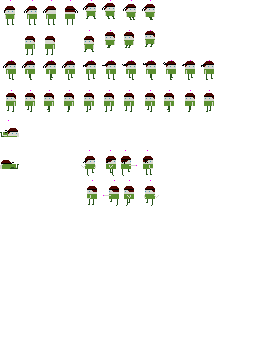
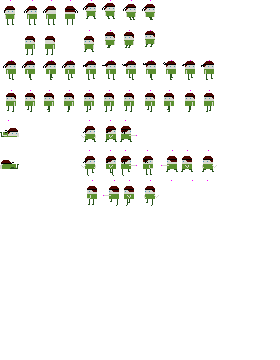
Added Jake's crawl attack animation

diff --git a/locations_back.py b/locations_back.py
@@ -14,15 +14,16 @@ locations = {
             },
             'obstacles': {
                 'obs rectangles': (
-                ((1950, 0), (50, 450), 2),
-                ((-100, -50), (50, 500), 5),
-                ((-100, 450), (2100, 50), 7),
-                ((0, 50), (50, 200), 9),
-                ((250, -200), (50, 200), 12),
-                ((300, -200), (400, 50), 13),
-                ((700, -200), (50, 200), 14),
-                ((700, 0), (1250, 50), 15),
-                ((0, 0), (300, 50), 16),
+                ((1950, 0), (50, 450), 2),  #2
+                ((-100, -50), (50, 500), 5),  #5
+                ((-100, 450), (2100, 50), 7),  #7
+                ((0, 50), (50, 200), 9),  #9
+                ((250, -200), (50, 200), 12),  #12
+                ((300, -200), (400, 50), 13),  #13
+                ((700, -200), (50, 200), 14),  #14
+                ((700, 0), (1250, 50), 15),  #15
+                ((0, 0), (300, 50), 16),  #16
+                ((450, 250), (50, 200), 17),  #17
                   ), # OBSTACLE RECTANGLES SECTION END
                 'settings': {
                     5: {
@@ -44,6 +45,26 @@ locations = {
                         'trigger description': {'make active': [(0, 'self', 0)], 'disappear': False},
                         'teleport': True,
                         'teleport description': {'on touch': True, 'new location': 'stairway', 'xy': (1400.0, 800.0)},
+                  },
+                    17: {
+                        'sprite': 0,
+                        'sprite elevated': False,
+                        'force render': False,
+                        'ghost': False,
+                        'actors pass through': False,
+                        'actors may grab': False,
+                        'speed': 0.2,
+                        'collideable': False,
+                        'gravity affected': False,
+                        'invisible': False,
+                        'teleport': True,
+                        'teleport description': {'new location': 'room81', 'on touch': True, 'xy': (800.0, 250.0)},
+                        'trigger': False,
+                        'trigger description': {'make active': [(0, 'self', 0)], 'disappear': False},
+                        'item': False,
+                        'item name': {'name': ''},
+                        'active': False,
+                        'actions': {0: []},
                   },
                   } # OBSTACLE SETTINGS SECTION END
               },
@@ -480,37 +501,37 @@ locations = {
             },
             'obstacles': {
                 'obs rectangles': (
-                ((1950, 0), (50, 250), 2),  #2
-                ((0, 0), (50, 250), 3),  #3
-                ((50, 0), (1900, 50), 4),  #4
-                ((2050, 250), (50, 200), 7),  #7
-                ((2000, 200), (100, 50), 8),  #8
-                ((-100, 200), (100, 50), 9),  #9
-                ((-100, 250), (50, 200), 10),  #10
-                ((300, 400), (50, 50), 11),  #11
-                ((350, 350), (100, 100), 12),  #12
-                ((400, 250), (100, 100), 13),  #13
-                ((450, 350), (100, 100), 14),  #14
-                ((500, 250), (100, 100), 15),  #15
-                ((550, 350), (100, 100), 16),  #16
-                ((500, 200), (50, 50), 17),  #17
-                ((350, 200), (50, 150), 18),  #18
-                ((350, 100), (200, 50), 19),  #19
-                ((400, 150), (100, 100), 20),  #20
-                ((-100, 450), (400, 50), 21),  #21
-                ((300, 450), (400, 50), 25),  #25
-                ((700, 450), (1400, 50), 26),  #26
-                ((250, 100), (50, 350), 27),  #27
-                ((1400, 100), (50, 50), 33),  #33
-                ((950, 100), (50, 50), 34),  #34
-                ((1250, 100), (50, 50), 35),  #35
-                ((1500, 100), (50, 50), 36),  #36
-                ((1100, 100), (50, 50), 37),  #37
-                ((700, 100), (50, 350), 38),  #38
-                ((300, 650), (400, 50), 39),  #39
-                ((1700, 100), (250, 350), 40),  #40
-                ((250, 500), (50, 200), 41),  #41
-                ((700, 500), (50, 200), 42),  #42
+                ((1950, 0), (50, 250), 2),
+                ((0, 0), (50, 250), 3),
+                ((50, 0), (1900, 50), 4),
+                ((2050, 250), (50, 200), 7),
+                ((2000, 200), (100, 50), 8),
+                ((-100, 200), (100, 50), 9),
+                ((-100, 250), (50, 200), 10),
+                ((300, 400), (50, 50), 11),
+                ((350, 350), (100, 100), 12),
+                ((400, 250), (100, 100), 13),
+                ((450, 350), (100, 100), 14),
+                ((500, 250), (100, 100), 15),
+                ((550, 350), (100, 100), 16),
+                ((500, 200), (50, 50), 17),
+                ((350, 200), (50, 150), 18),
+                ((350, 100), (200, 50), 19),
+                ((400, 150), (100, 100), 20),
+                ((-100, 450), (400, 50), 21),
+                ((300, 450), (400, 50), 25),
+                ((700, 450), (1400, 50), 26),
+                ((250, 100), (50, 350), 27),
+                ((1400, 100), (50, 50), 33),
+                ((950, 100), (50, 50), 34),
+                ((1250, 100), (50, 50), 35),
+                ((1500, 100), (50, 50), 36),
+                ((1100, 100), (50, 50), 37),
+                ((700, 100), (50, 350), 38),
+                ((300, 650), (400, 50), 39),
+                ((1700, 100), (250, 350), 40),
+                ((250, 500), (50, 200), 41),
+                ((700, 500), (50, 200), 42),
                   ), # OBSTACLE RECTANGLES SECTION END
                 'settings': {
                     10: {
@@ -909,21 +930,21 @@ locations = {
                         'sprite': 0,
                         'sprite elevated': False,
                         'force render': False,
-                        'ghost': False,
-                        'actors pass through': True,
-                        'actors may grab': False,
-                        'speed': 0.2,
-                        'collideable': False,
-                        'gravity affected': False,
                         'invisible': False,
-                        'teleport': True,
-                        'teleport description': {'new location': 'room81', 'on touch': False, 'xy': ('keep x', 300.0)},
-                        'trigger': False,
-                        'trigger description': {'make active': [(0, 'self', 0)], 'disappear': False},
+                        'ghost': False,
+                        'speed': 0.2,
                         'item': False,
                         'item name': {'name': ''},
+                        'actors may grab': False,
+                        'actors pass through': True,
                         'active': False,
                         'actions': {0: []},
+                        'collideable': False,
+                        'gravity affected': False,
+                        'trigger': False,
+                        'trigger description': {'make active': [(0, 'self', 0)], 'disappear': False},
+                        'teleport': True,
+                        'teleport description': {'new location': 'room81', 'on touch': False, 'xy': ('keep x', 300.0)},
                   },
                   } # OBSTACLE SETTINGS SECTION END
               },

diff --git a/locations.py b/locations.py
@@ -23,7 +23,6 @@ locations = {
                 ((700, -200), (50, 200), 14),  #14
                 ((700, 0), (1250, 50), 15),  #15
                 ((0, 0), (300, 50), 16),  #16
-                ((450, 250), (50, 200), 17),  #17
                   ), # OBSTACLE RECTANGLES SECTION END
                 'settings': {
                     5: {
@@ -45,26 +44,6 @@ locations = {
                         'trigger description': {'make active': [(0, 'self', 0)], 'disappear': False},
                         'teleport': True,
                         'teleport description': {'on touch': True, 'new location': 'stairway', 'xy': (1400.0, 800.0)},
-                  },
-                    17: {
-                        'sprite': 0,
-                        'sprite elevated': False,
-                        'force render': False,
-                        'ghost': False,
-                        'actors pass through': False,
-                        'actors may grab': False,
-                        'speed': 0.2,
-                        'collideable': False,
-                        'gravity affected': False,
-                        'invisible': False,
-                        'teleport': True,
-                        'teleport description': {'new location': 'room81', 'on touch': True, 'xy': (800.0, 250.0)},
-                        'trigger': False,
-                        'trigger description': {'make active': [(0, 'self', 0)], 'disappear': False},
-                        'item': False,
-                        'item name': {'name': ''},
-                        'active': False,
-                        'actions': {0: []},
                   },
                   } # OBSTACLE SETTINGS SECTION END
               },

diff --git a/actors_description.py b/actors_description.py
@@ -174,7 +174,7 @@ demon_1 = {
             # 74,74,74,74,74,  # 20 - 24
             # 74,74,74,75,75), # 25 - 29
             # 'demolisher offset': (46, 36),
-            'speed': 2,
+            'speed': 3,
             'activity at frames': {
                 4: {
                     'sound': True,
@@ -199,7 +199,7 @@ demon_1 = {
             # 74,74,74,74,74,  # 20 - 24
             # 74,74,74,75,75), # 25 - 29
             # 'demolisher offset': (46, 36),
-            'speed': 2,
+            'speed': 1,
             'activity at frames': {
                 4: {
                     'sound': True,
@@ -497,7 +497,7 @@ demon_2 = {
             # 74,74,74,74,74,  # 20 - 24
             # 74,74,74,75,75), # 25 - 29
             # 'demolisher offset': (46, 36),
-            'speed': 2,
+            'speed': 8,
             'activity at frames': {
                 4: {
                     'sound': True,
@@ -522,7 +522,7 @@ demon_2 = {
             # 74,74,74,74,74,  # 20 - 24
             # 74,74,74,75,75), # 25 - 29
             # 'demolisher offset': (46, 36),
-            'speed': 2,
+            'speed': 8,
             'activity at frames': {
                 4: {
                     'sound': True,

diff --git a/level_editor_menu_structure.py b/level_editor_menu_structure.py
@@ -642,7 +642,6 @@ menu_structure = {
             'active': True,
             'after action': 'keep going'
         },
-
         'teleport keep y': {
             'colors': {
                 'frame color': GRAY,
